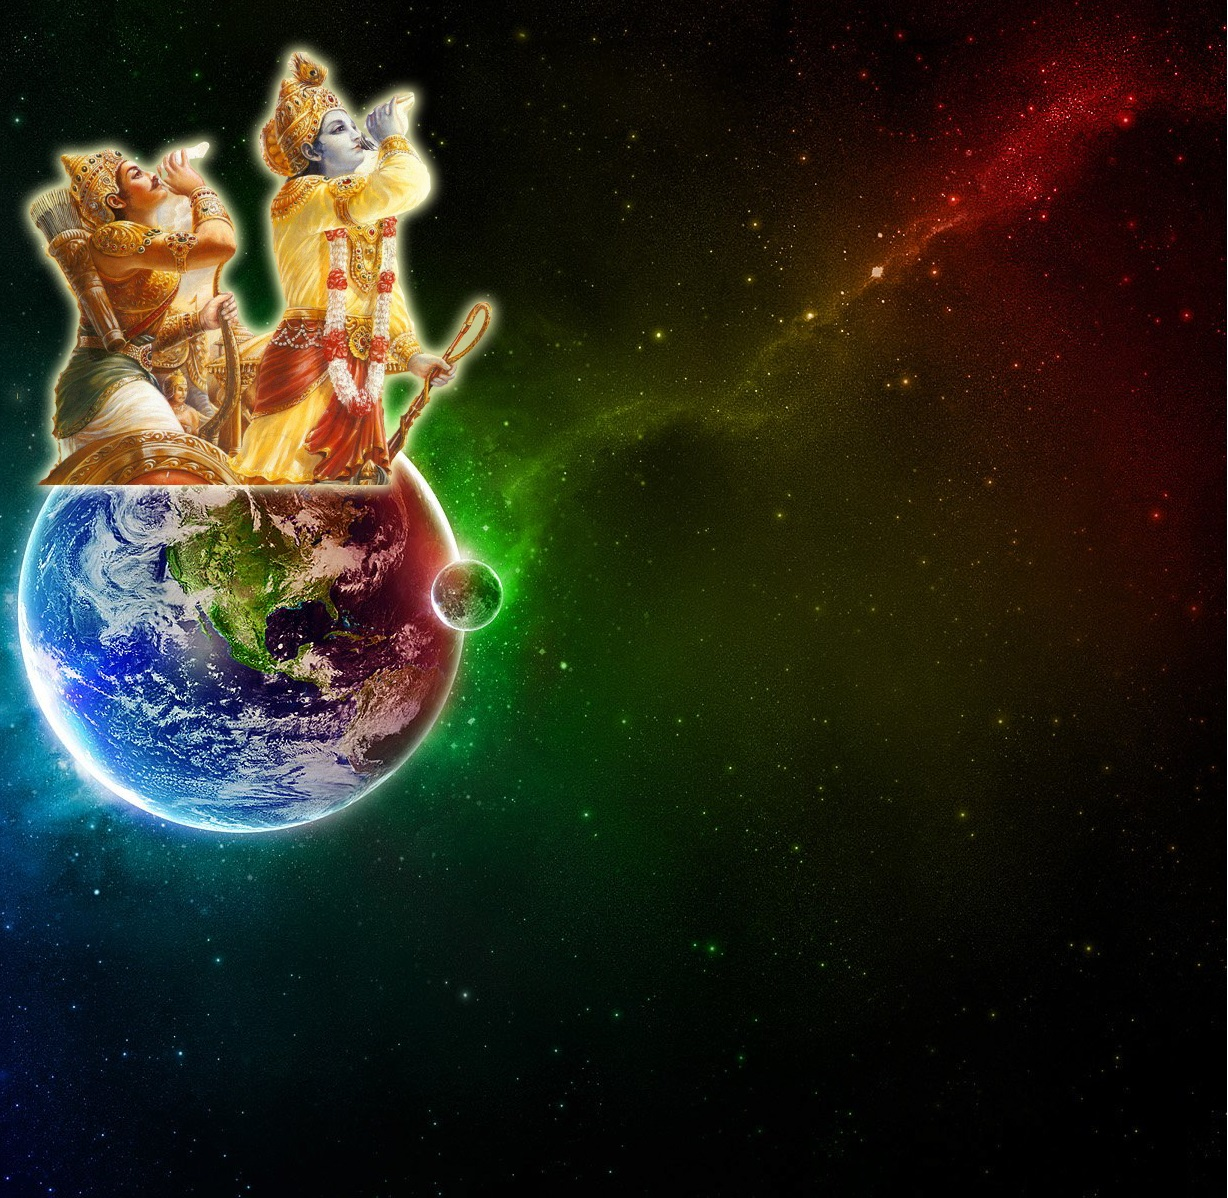
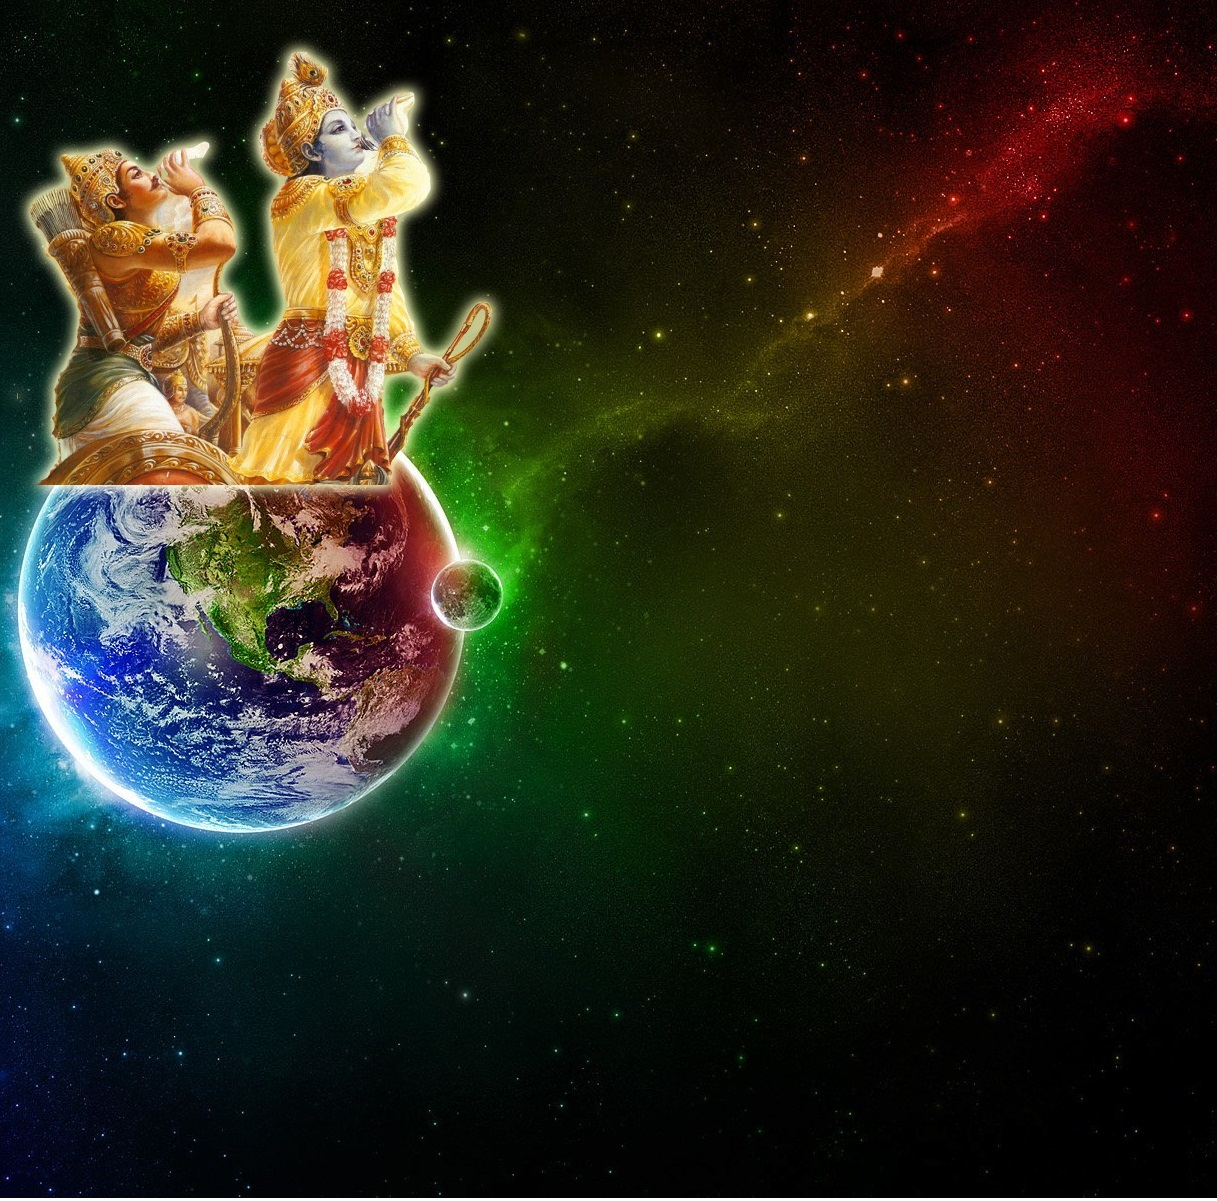
Tuning site
make krishna equal to the width of mobile

diff --git a/index.html b/index.html
@@ -3,7 +3,7 @@
 <meta name="viewport" content="width=device-width, initial-scale=1">
 <link rel="stylesheet" href="https://www.w3schools.com/w3css/4/w3.css">
 <link href="https://fonts.googleapis.com/css2?family=Abel&family=Carter+One&display=swap" rel="stylesheet">
-<body style="background-color:black;background-image: url('https://gitajoy.co.in/reg.jpg');background-repeat: no-repeat;background-size: 100%;">
+<body style="background-color:black;background-image: url('https://gitajoy.co.in/reg.jpg');background-repeat: no-repeat; background-size: 800px;box-shadow: 0 0 32px 32px black inset;">
 
 
 <div class="w3-row-padding">
